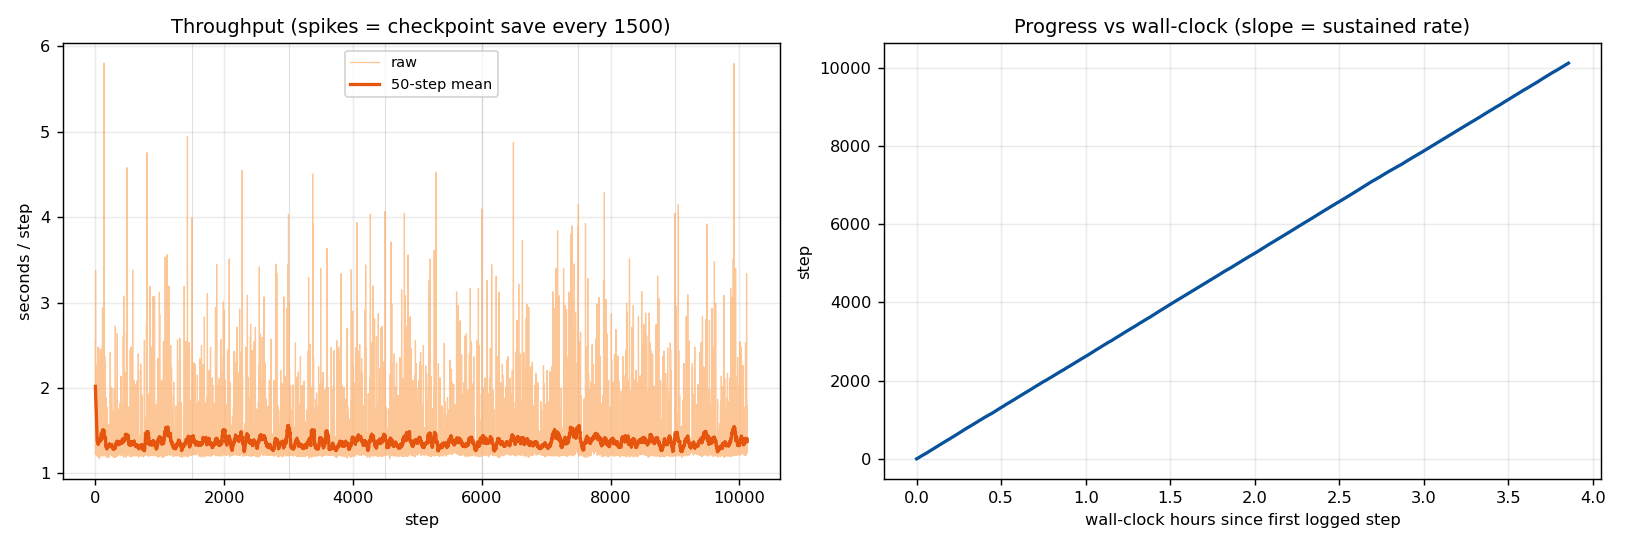
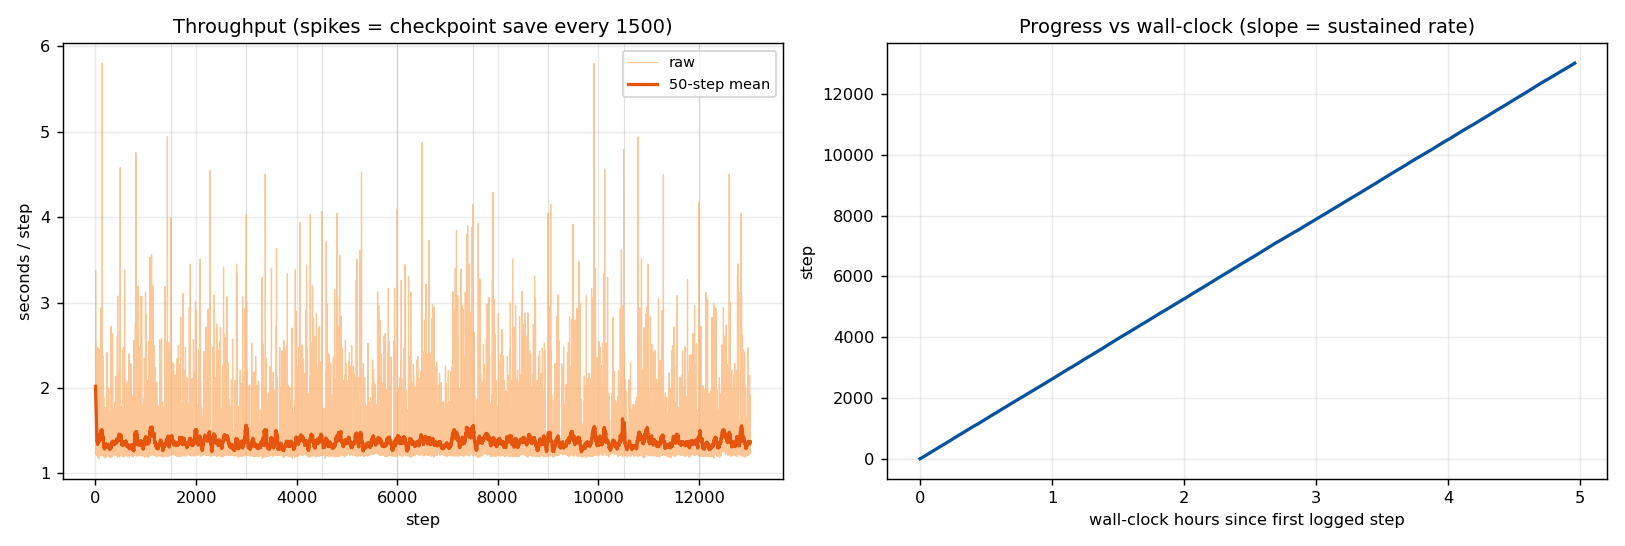
TRAINING_ANALYSIS: rank-32 snapshot @ step 13017/28467 (45.7%); loss still descending

diff --git a/TRAINING_ANALYSIS/quran_ahh_r8_rank32/ANALYSIS.md b/TRAINING_ANALYSIS/quran_ahh_r8_rank32/ANALYSIS.md
@@ -1,8 +1,8 @@
 # Training analysis — `quran_ahh_r8` **revised** (AR+NAR, rank 32, no KL)
 
-**LIVE SNAPSHOT** — captured **2026-10-05 ~16:10 UTC** at **step 10,120 / 28,467 (35.5%)**.
-The run is still training (pid 16301, started `2026-10-05T12:35:11`); this is *not* a final
-analysis. Charts produced by the parametrized `TRAINING_ANALYSIS/generate_plots.py`:
+**LIVE SNAPSHOT** — captured **2026-10-05 ~17:34 UTC (20:34 Bahrain)** at **step 13,017 / 28,467
+(45.7%)**. The run is still training (pid 16301, started `2026-10-05T12:35:11`); this is *not* a
+final analysis. Charts produced by the parametrized `TRAINING_ANALYSIS/generate_plots.py`:
 
 ```bash
 cd /content/maqamrock-yue2-lora-finetuning
@@ -15,15 +15,16 @@ python TRAINING_ANALYSIS/generate_plots.py \
   --event-label "checkpoint save"
 ```
 
-> **This directory is the revised rank-32 run.** The prior **AR-only, rank-8** run of the
-> same name — completed 2026-10-05 07:39 UTC — is analyzed at
-> [`../quran_ahh_r8/ANALYSIS.md`](../quran_ahh_r8/ANALYSIS.md); it shares the run name and
-> the `/content/ai-toolkit/output/quran_ahh_r8/` path, which are now this run's.
+> **This directory is the revised rank-32 run.** The prior **AR-only, rank-8** run of the same
+> name — completed 2026-10-05 07:39 UTC — is analyzed at
+> [`../quran_ahh_r8/ANALYSIS.md`](../quran_ahh_r8/ANALYSIS.md). The run name `quran_ahh_r8` is a
+> **misnomer (it is rank 32)**; a rename is **deferred until training completes** (renaming
+> mid-run breaks resume) — see `agent_notes/current.md`. Not to be confused with the archived
+> rank-8 `…/archive/quran_ahh_r8_rank8_aronly/`.
 
 > This is **training loss only** — no in-training validation and **no samples**
 > (`train.disable_sampling: true`), so adapter quality must be judged offline from the
-> checkpoints, not from loss alone (`docs/QURAN_PRON_REVIEW.md` §1). A first listening
-> verdict (T4 probe, c4500/c7500) is recorded below.
+> checkpoints. A first listening verdict (T4 probe, c4500/c7500) is recorded below.
 
 ## Run at a glance
 
@@ -34,12 +35,13 @@ python TRAINING_ANALYSIS/generate_plots.py \
 | Dataset | `/content/quran_ahh_dataset/train` — **9,489 pairs** (AHH filtered, 3 reciters, single caption/clip, 50/50 simple/uthmani stratified); `steps: 28467` = **3 epochs** |
 | GPU | Colab **L4** (23,034 MiB) |
 | Caching | 9,489 clips on the banked `_latent_cache.tar` — pass completed **< 1 s** at launch (cache HIT, no re-encode) |
-| Steps done | **10,120 / 28,467 (35.5%)** at snapshot |
-| Step time | **median 1.247 s** (p10 1.216 / p90 1.745; max 5.804) → ~**0.73 steps/s** (0.71 recent) |
+| Steps done | **13,017 / 28,467 (45.7%)** at snapshot |
+| Step time | **median 1.249 s** (p10 1.216 / p90 1.742; max 5.804) → ~**0.73 steps/s** (0.75 recent) |
 | Save cadence | every **1500** steps (~34 min at current rate) |
 | Samples | **none** (`disable_sampling: true`) — grey verticals are checkpoint saves |
-| Checkpoints | `_000001500 / _3000 / _4500 / _6000 / _7500 / _9000` (**6**) + `optimizer.pt` (step 9000) — local + GCS (verified); next save 10500 |
-| GPU (training window) | mem p50 **8,978** / peak **9,150** MiB of 23,034; util p50 **53 %**, p90 100 %; temp p50 77 / max 80 °C; power p50 66 / max 75 W (limit 72) |
+| Checkpoints | `_000001500 … _000012000` (**8**) + `optimizer.pt` (step 12000) — local + GCS (verified); next save 13500 |
+| GPU (training window) | mem p50 **9,038** / peak **9,284** MiB of 23,034; util p50 **53 %**, p90 100 %; temp p50 77 / max 80 °C; power p50 66 / max 75 W (limit 72) |
+| ETA | **~345 min (5.8 h)** at the recent rate → completion ~**23:20 UTC / 02:20 Bahrain** |
 | Health | clean — no tracebacks/OOM; VRAM flat; steady ~34 min save cadence |
 
 ## Charts
@@ -64,68 +66,69 @@ python TRAINING_ANALYSIS/generate_plots.py \
 | 7001–8000 | 4.2126 | 3.5345 | 3.5345 | 0.6780 |
 | 8001–9000 | 4.1680 | 3.5015 | 3.5015 | 0.6665 |
 | 9001–10000 | 4.0953 | 3.4341 | 3.4341 | 0.6613 |
-| 10001–10120 | 4.0642 | 3.4064 | 3.4064 | 0.6578 |
+| 10001–11000 | 4.0645 | 3.3996 | 3.3996 | 0.6649 |
+| 11001–12000 | 4.0479 | 3.3852 | 3.3852 | 0.6627 |
+| 12001–13000 | 4.0244 | 3.3674 | 3.3674 | 0.6571 |
+| 13001–13017 | 4.0246 | 3.3511 | 3.3511 | 0.6735 |
 
-First-50 vs last-50 means (from `generate_plots.py`): `loss/loss` **5.8409 → 4.0713**
-(−1.770), `loss/ar_ce` **5.0275 → 3.4148** (−1.613), `additional_model_loss` identical,
-`learning_rate` constant 1e-4. `loss/loss` minimum **3.3151 @ step 8258**.
+First-50 vs last-50 means (from `generate_plots.py`): `loss/loss` **5.8409 → 4.0334**
+(−1.807), `loss/ar_ce` **5.0275 → 3.3415** (−1.686), `additional_model_loss` identical,
+`learning_rate` constant 1e-4. `loss/loss` minimum **3.1630 @ step 12902**.
 
 ## Observations / flags
 
-1. **Only 4 metric keys** — `additional_model_loss`, `learning_rate`, `loss/ar_ce`,
-   `loss/loss`. **No `ar_kl`** (weight is now 0.0, correct) and **no separately-keyed NAR
-   term**.
-2. **`additional_model_loss` is byte-identical to `loss/ar_ce`** across all rows — a duplicate
-   label, **not** a second loss. The NAR/flow term is only visible as the residual
-   `loss/loss − ar_ce` ≈ **0.66** (0.776 → 0.660 over the run), and it is **still falling** —
-   both experts are training, but the log gives no clean separate read on the NAR.
-3. **`loss/ar_ce` — the AR term — falls monotonically** across every bin (4.16 → 3.41) and has
-   **not plateaued** at step 10k (last bin 3.434 → 3.406).
-4. **`loss/loss` is AR-dominated**, so do **not** read it as audio quality; the held-out
-   free-run eval is the only quality signal.
+1. **Only 4 metric keys** — `additional_model_loss`, `learning_rate`, `loss/ar_ce`, `loss/loss`.
+   **No `ar_kl`** (weight 0.0, correct) and **no separately-keyed NAR term**.
+2. **`additional_model_loss` is byte-identical to `loss/ar_ce`** — a duplicate label, not a second
+   loss. The NAR/flow term is only visible as the residual `loss/loss − ar_ce` ≈ **0.66**
+   (0.776 → 0.675 over the run), still falling. Both experts train, but the log gives no clean
+   separate read on the NAR.
+3. **`loss/ar_ce` keeps falling monotonically** across every bin (4.16 → 3.35) and has **not
+   plateaued** at 13k (last full bin 3.385 → 3.367).
+4. **`loss/loss` is AR-dominated** — do **not** read it as audio quality; the held-out free-run
+   eval is the only quality signal.
 5. **The L4 is not the bottleneck.** util p50 **53 %** (p90 100 %), ~9 GB of 23 GB —
    data/CPU-bound; power saturates at the 72 W limit.
-6. **First 50 are warmup-inflated** (`loss/loss` ~5.84); the per-step series is noisy — trust
-   the bins.
-7. **Occasional multi-second throughput spikes** (max 5.80 s/step) align with the 1500-step
-   saves; the median stays ~1.25 s/step.
+6. **First 50 are warmup-inflated** (`loss/loss` ~5.84); the per-step series is noisy — trust the
+   bins. Occasional multi-second throughput spikes (max 5.80 s/step) align with the 1500-step saves.
 
 ## Listening verdict — first T4 probe (2026-10-05, user)
 
 Rendered **c4500** and **c7500** (real AR+NAR arms) on held-out 2:255, seed 20261004, both
-scripts; **4 WAVs** at `…/audiocpp_inference/out/20261005-154621_quran_pt_probe/` (mirrored
-to GCS 16:05Z). User listened (T4 since disconnected):
+scripts; **4 WAVs** at `…/audiocpp_inference/out/20261005-154621_quran_pt_probe/` (mirrored to
+GCS 16:05Z). User listened (T4 since disconnected):
 
-- **All tracks "sound like Alhusary — more or less"** (reciter-style voice; data spans 3
-  reciters with no reciter in the caption, so some averaging is expected).
+- **All tracks "sound like Alhusary — more or less"** (reciter-style voice; 3 reciters in the
+  data, no reciter in the caption, so some averaging is expected).
 - **Best: `c7500_simple`** (one mistake); **simple script beats uthmani** for both 4500 and 7500.
-- **Hard letters (ح، ع …) are no longer the problem they were in the rank-8 run** — the
-  AR+NAR revision moved articulation, not just prosody. Not fully correct yet.
+- **Hard letters (ح، ع …) are no longer the problem they were in the rank-8 run** — the AR+NAR
+  revision moved articulation, not just prosody. Not fully correct yet.
 
 Signal: genuine improvement vs the rank-8 AR-only run, still improving at 7.5k → **not a
-plateau**; next probe planned around **step ~18000**.
+plateau**; next probe planned around **step ~18000** (arrives ~22:28 Bahrain, ~19:28 UTC).
 
 ## Checkpoints (on disk + GCS)
 
-`/content/ai-toolkit/output/quran_ahh_r8/`: `quran_ahh_r8_000001500 … _000009000`
-(6 × 117,500,848 B ≈ 112 MiB) + `optimizer.pt` (119,807,781 B, step 9000) + `loss_log.db`.
-GCS mirror `…/quran_ahh_r8/output/` verified (all six + optimizer present).
+`/content/ai-toolkit/output/quran_ahh_r8/`: `quran_ahh_r8_000001500 … _000012000` (8 ×
+117,500,848 B ≈ 112 MiB) + `optimizer.pt` (119,807,781 B, step 12000) + `loss_log.db`.
+GCS mirror `…/quran_ahh_r8/output/` verified (all eight + optimizer + a `README.md` marker).
 
 ## Caveats
 
-- **Mid-run snapshot** — numbers will move; re-run the command above for the final charts/bins.
-- **No validation split and no samples** (`disable_sampling: true`); the listening verdict
-  above is a small single-aya, single-listen read, not a blind/statistical eval. A human blind
-  gate (`ab-blind-eval`) is still required before any merge.
+- **Mid-run snapshot** — re-run the command above for the final charts/bins.
+- **No validation split and no samples** (`disable_sampling: true`); the listening verdict above is
+  a small single-aya, single-listen read, not a blind/statistical eval. A human blind gate
+  (`ab-blind-eval`) is still required before any merge.
 - **Saved adapters are EMA weights** (`ema_config.use_ema: true`, decay 0.999).
-- Absolute loss is not comparable to the rank-8 run (different rank/scope/epoch count); only
-  the *shape* (monotone `ar_ce` down) is.
+- Absolute loss is not comparable to the rank-8 run (different rank/scope/epoch count); only the
+  *shape* (monotone `ar_ce` down) is.
+- **Run name is a misnomer** (rank 32); rename is deferred to post-training.
 
 ## Next steps
 
-- Continue to **28,467**; regenerate charts at checkpoints.
-- **~step 18000**: convert the then-current checkpoint(s) to audio.cpp AR/NAR arms and re-run
-  the T4 probe (`INFERENCE/quran_pt_probe.py --prefix quran_ahh_r8_rank32/convert --arms c18000`).
+- Continue to **28,467** (~02:20 Bahrain if the VM stays up); regenerate charts at checkpoints.
+- **~step 18000**: convert that checkpoint to audio.cpp AR/NAR arms on the L4 and re-run the T4
+  probe (`INFERENCE/quran_pt_probe.py --prefix quran_ahh_r8_rank32/convert --arms c18000`).
 - If the NAR term matters to the verdict, add a dedicated NAR-loss log key (or inspect the
   toolkit's metric emission) so it is no longer only a residual.
 - **Human blind gate** (`ab-blind-eval`) before any merge.
